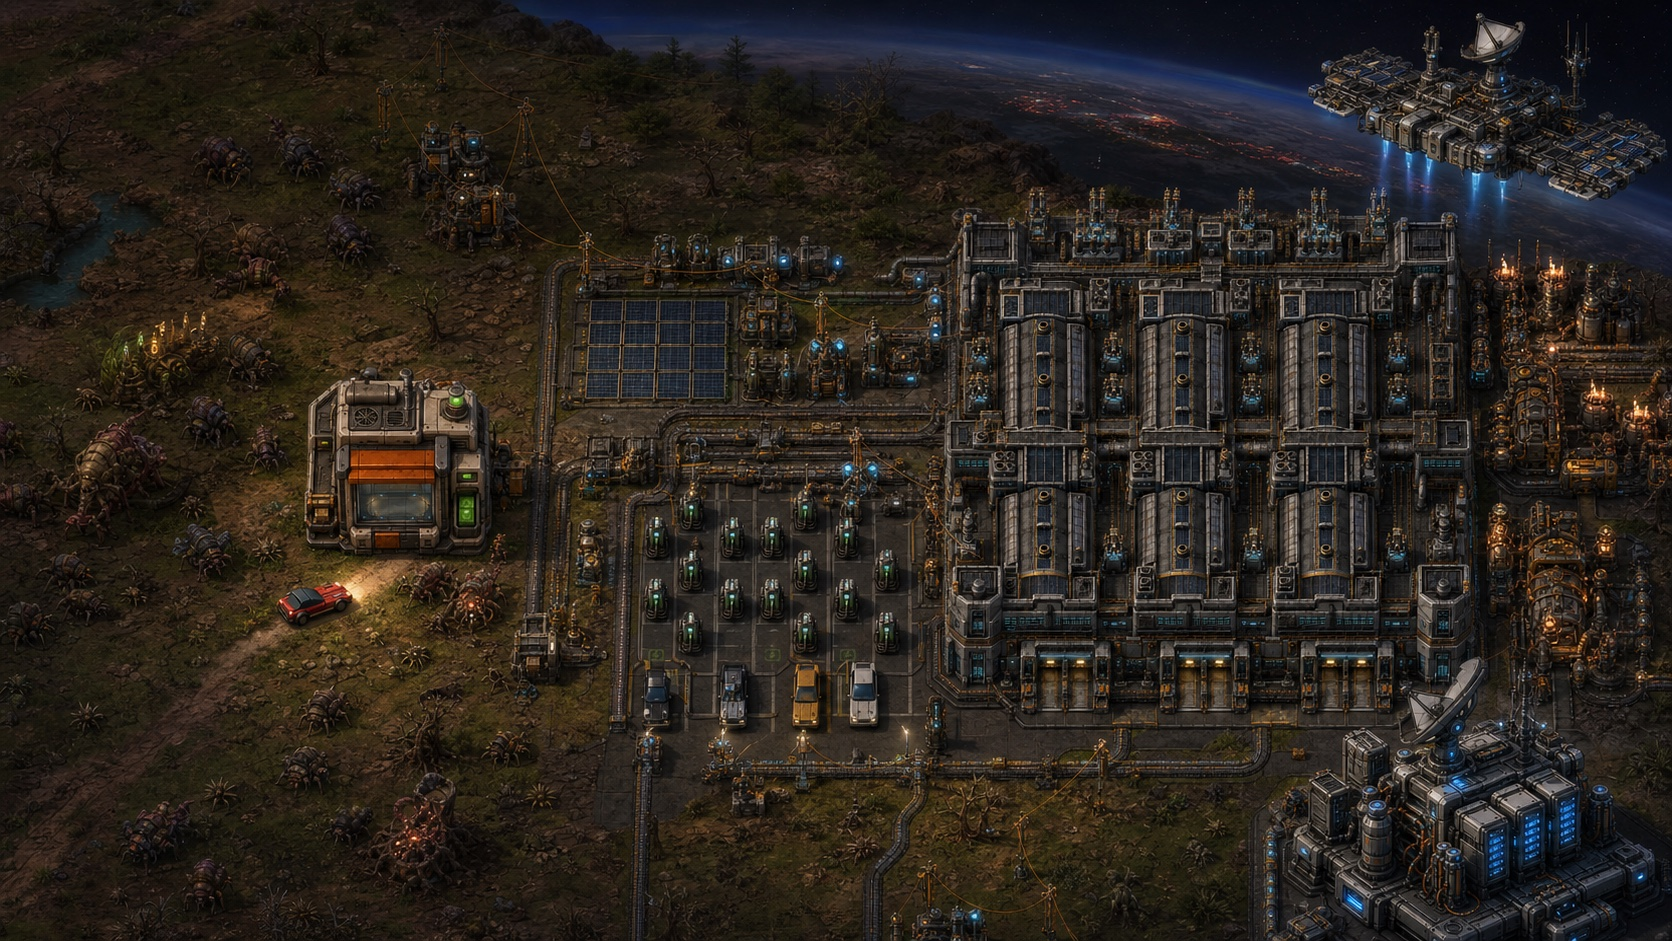
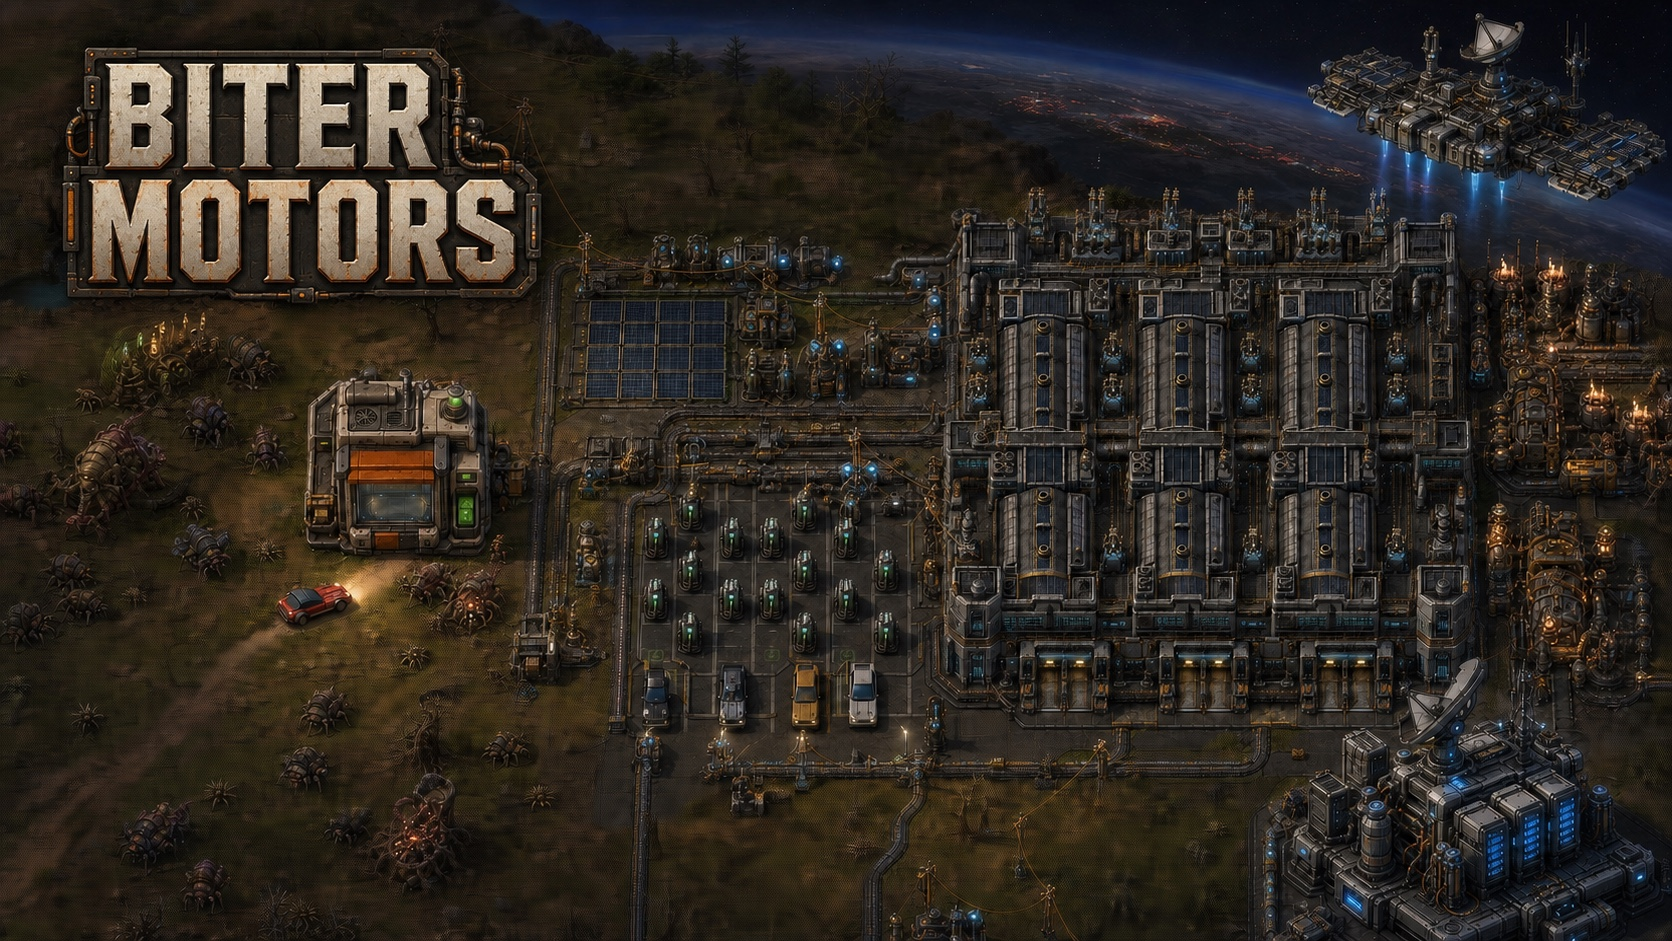
Refine Biter Motors campaign opening

diff --git a/README.md b/README.md
@@ -1,35 +1,44 @@
 # Biter Motors
 
-<p align="center">
-  <img src="mod/factoryx_0.1.0/thumbnail.png" width="180" alt="Biter Motors">
-</p>
+![A Biter Motors campaign growing from a first sale into planetary industry and orbital compute](docs/biter-motors-journey.jpg)
+
+<p align="center"><em>Head office expects a factory. Nauvis has other plans.</em></p>
 
 **Build the company. Electrify the planet. Outgrow the sky.**
 
 Biter Motors is a new Factorio 2.1 Space Age campaign about turning a failed
-colony mission into an industrial empire. You arrive on Nauvis with a damaged
-ship, a useful but finite cache of advanced equipment, and no sign of the
-landing party that came before you. Their plans are gone. The factory is not.
+industrial expedition into an empire.
 
-![A Biter Motors campaign growing from a first sale into planetary industry and orbital compute](docs/biter-motors-journey.jpg)
+The boss sent you to Nauvis to help finish a factory launch. The advance landing
+party was supposed to have power online, miners running, and the first
+production lines waiting for you.
 
-<p align="center"><em>A crash landing is only the first funding round.</em></p>
+They never arrived.
 
-## Astro-capitalism Starts Small
+There is no factory. No crew. No handover. Just a damaged ship, scattered
+cargo, a finite cache of equipment, and a corporate objective that somehow
+survived the crash.
 
-The opening still asks you to mine, automate, and survive, but your colony has a
-different reason to grow. Reconstruct lost industrial capabilities. Put
-recovered technology back into production. Build something the locals might
-actually want.
+The customers are not friendly.
 
-Your first customers are also the reason ordinary engineers would have built
-walls.
+Yet.
+
+## The Brief Was Wrong
+
+Recover what survived. Rebuild the industrial capabilities the landing party
+was meant to establish. Put advanced equipment back into production before
+Nauvis turns a bad launch into a write-off.
+
+The only part of the original plan still intact is the expectation of growth.
 
 ## An Unlikely Market
 
-Biter settlements can become markets instead of targets. Reach them with Sales
-Offices and powered charging infrastructure, then manufacture vehicles and
-move the physical orders, products, and profit through your factory.
+Nauvis has a population. It also has teeth.
+
+Biter settlements can become markets instead of targets, but only if you can
+reach them, power the infrastructure, and survive the introduction. Build
+something the locals might want, then move physical orders, vehicles, and
+profit through the factory you were forced to create from nothing.
 
 The relationship is useful, uneasy, and visible on the map. Customers consume
 real capacity. Settlements grow. Service failures have consequences. Worms
